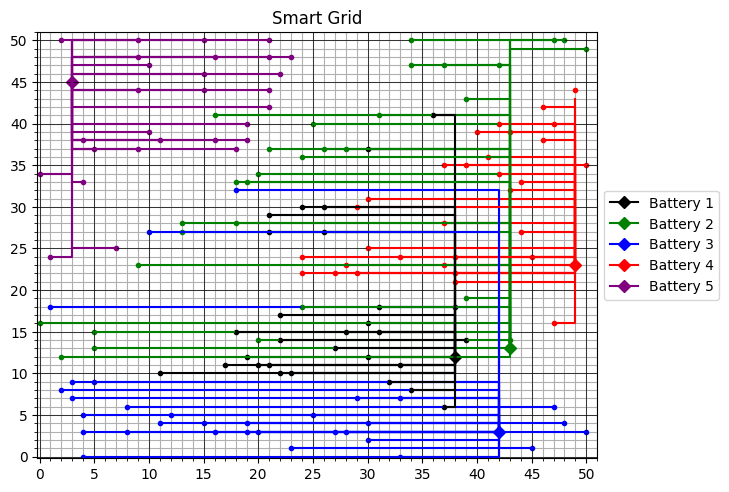
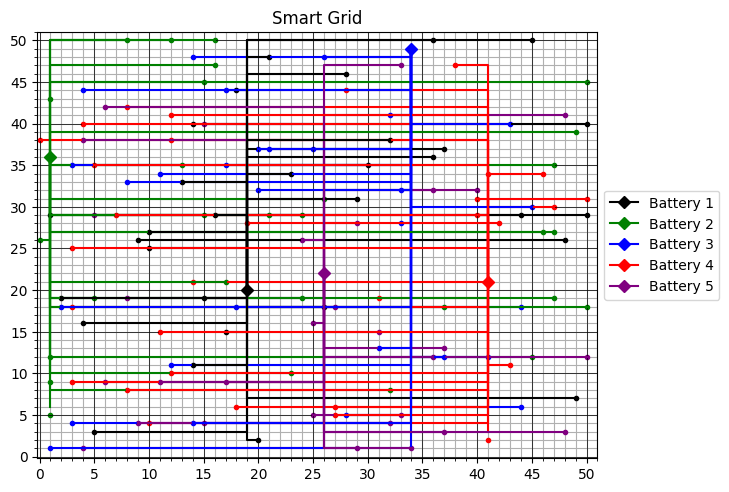
Restart command line!

Changed region(s): [[0.0604, 0.061, 0.8148, 0.9756]]

diff --git a/testmain.py b/testmain.py
@@ -10,7 +10,7 @@ from code.algorithms.random_algorithm import start_random
 from code.algorithms.distance_related_algorithm import start_distance
 from code.experiments.distance_related_exp import test_distance
 from code.experiments.random_exp import test_random
-from code.experiments.hillclimber_exp import hillclimber_random, hillclimber_greedy, restart_hillclimber_random, restart_hillclimber_greedy
+from code.experiments.hillclimber_exp import hillclimber_random, hillclimber_greedy, restart_hillclimber_random, restart_hillclimber_greedy, data_restart
 import time
 
 """
@@ -59,11 +59,13 @@ if __name__ == "__main__":
     elif argv[3] == "restart_hillclimber":
         #3 = name, 4 = base, 5 = houses, 6 = depth, 7=restarts
         if argv[4] == "random":
-            data = restart_hillclimber_random(raw_data.houses, raw_data.batteries, int(argv[5]), int(argv[6]), int(argv[7]))
+            data_dictionary = restart_hillclimber_random(raw_data.houses, raw_data.batteries, int(argv[5]), int(argv[6]), int(argv[7]))
+            data = data_restart(data_dictionary)
             output_file(data.houses, data.batteries)
             plot_grid(data.houses, data.batteries, data.cables)
         elif argv[4] == "greedy":
-            data = restart_hillclimber_greedy(raw_data.houses, raw_data.batteries, int(argv[5]), int(argv[6]), int(argv[7]))
+            data_dictionary = restart_hillclimber_greedy(raw_data.houses, raw_data.batteries, int(argv[5]), int(argv[6]), int(argv[7]))
+            data = data_restart(data_dictionary)
             output_file(data.houses, data.batteries)
             plot_grid(data.houses, data.batteries, data.cables)
     elif argv[3] == "cluster":

diff --git a/code/experiments/hillclimber_exp.py b/code/experiments/hillclimber_exp.py
@@ -160,3 +160,13 @@ def restart_hillclimber_greedy(houses: dict[int, House], batteries: dict[int, Ba
             
     return results
 
+def data_restart(data: dict[int, Data]):
+    best_score = 1000000
+    data_object_best_score = 0
+    for data_object in data.values():
+        current_score =  data_object.cost
+        current_data_object = data_object
+        if current_score < best_score:
+            best_score = current_score
+            data_object_best_score: Data = current_data_object
+    return data_object_best_score
